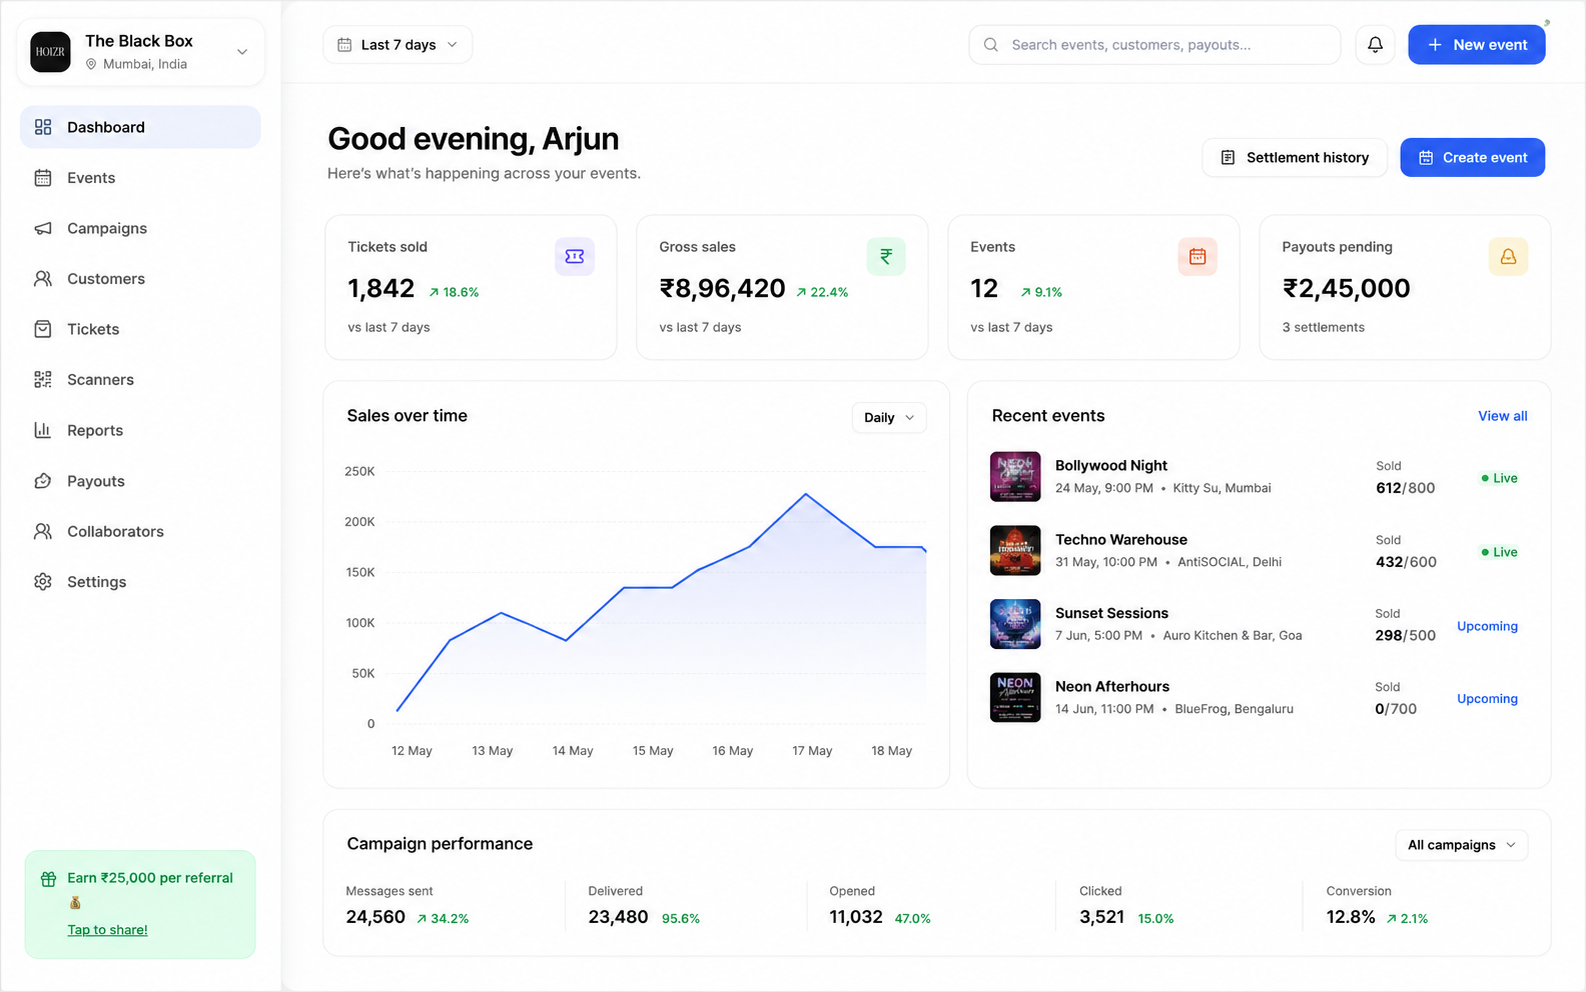
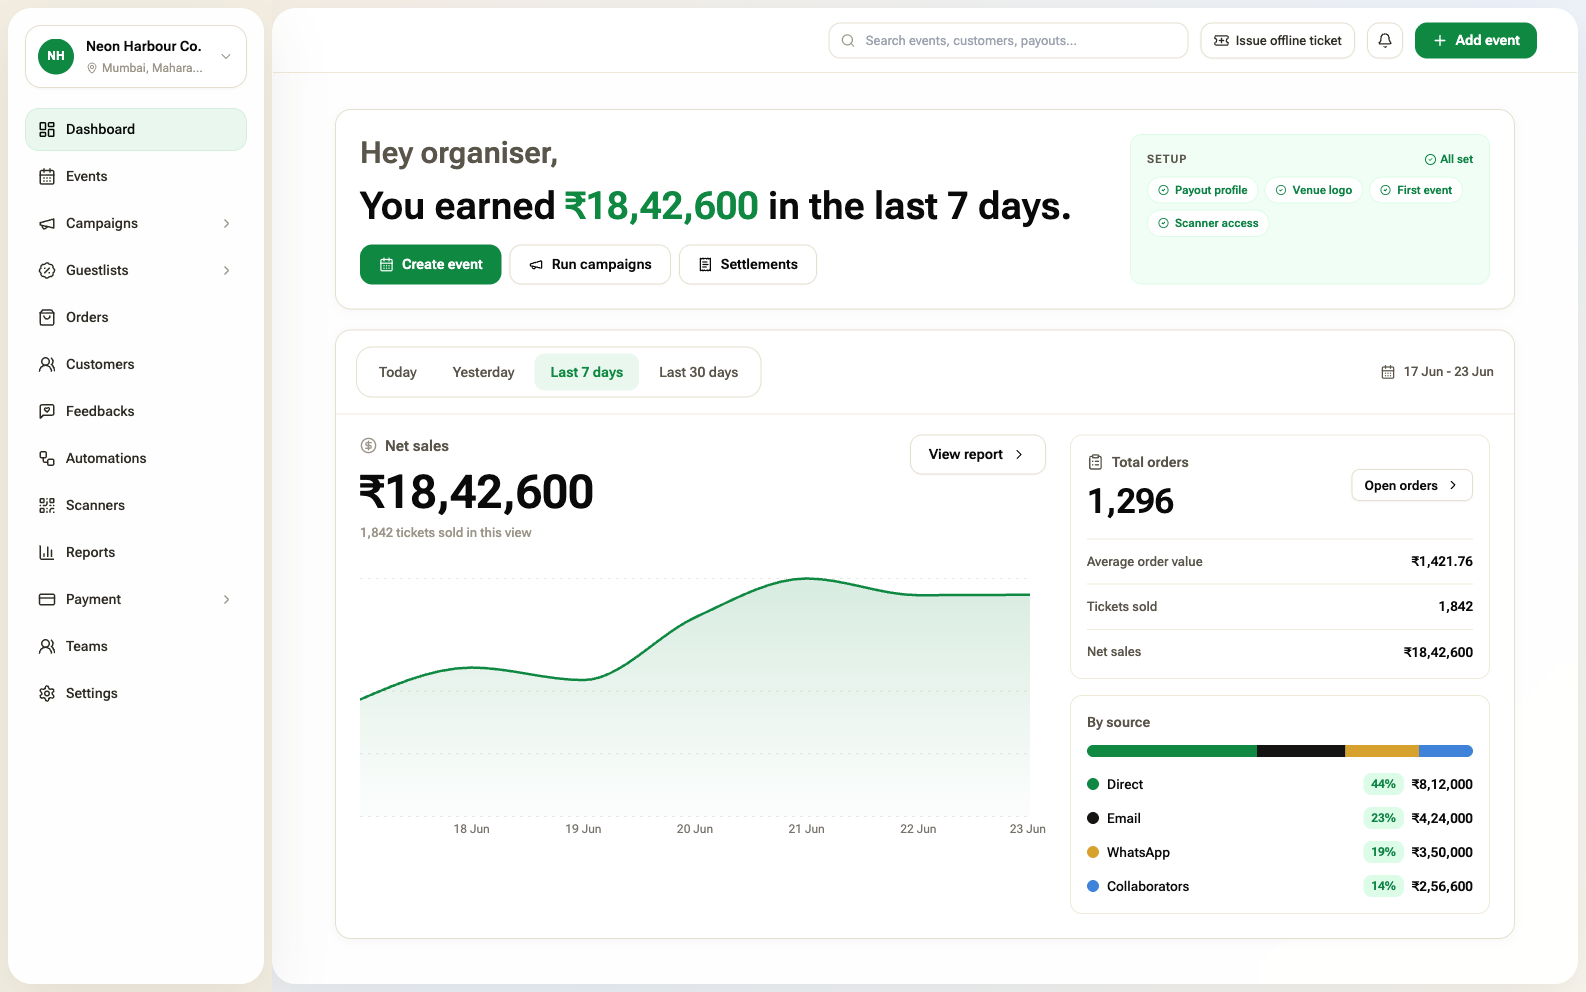
polish(marketing): refresh hero dashboard screenshot + tune spacing for Manrope
- Replace the stale hero dashboard image (old Tickets/Payouts/Collaborators
  sidebar) with the current product screenshot (Neon Harbour Co., real
  sidebar, by-source breakdown); same 1586x992 dims, fits the laptop cutout.
  Regenerate blurhash-manifest for the new image.
- Loosen heading line-heights/tracking for Manrope (hm-display 1.0->1.06,
  hm-h2 1.06->1.12) so headings don't read cramped.
- Cut hero bottom padding (pb-20 -> pb-8) to remove trailing whitespace.

diff --git a/styles/marketing-tokens.css b/styles/marketing-tokens.css
@@ -157,16 +157,17 @@
   font-family: var(--m-font-display);
   font-weight: 700;
   font-size: clamp(48px, 8vw, 104px);
-  line-height: 1.0;
-  letter-spacing: -0.035em;
+  /* Line-height / tracking tuned for Manrope (looser than the old Bodoni). */
+  line-height: 1.06;
+  letter-spacing: -0.025em;
   text-wrap: balance;
 }
 .hoizr-marketing .hm-h2 {
   font-family: var(--m-font-display);
   font-weight: 700;
   font-size: clamp(36px, 4.8vw, 60px);
-  line-height: 1.06;
-  letter-spacing: -0.025em;
+  line-height: 1.12;
+  letter-spacing: -0.02em;
   text-wrap: balance;
 }
 .hoizr-marketing .hm-h3 {

diff --git a/components/marketing/sections/Hero.tsx b/components/marketing/sections/Hero.tsx
@@ -44,7 +44,7 @@ export const Hero = () => {
       {/* Hero background intentionally empty — the marketing canvas
           colour underneath does all the work. PixelBlast removed per
           spec. */}
-      <div className="hm-section relative pt-12 pb-14 text-center md:pt-20 md:pb-20">
+      <div className="hm-section relative pt-12 pb-6 text-center md:pt-20 md:pb-8">
         <motion.div
           initial={{ opacity: 0, y: 8 }}
           animate={{ opacity: 1, y: 0 }}
